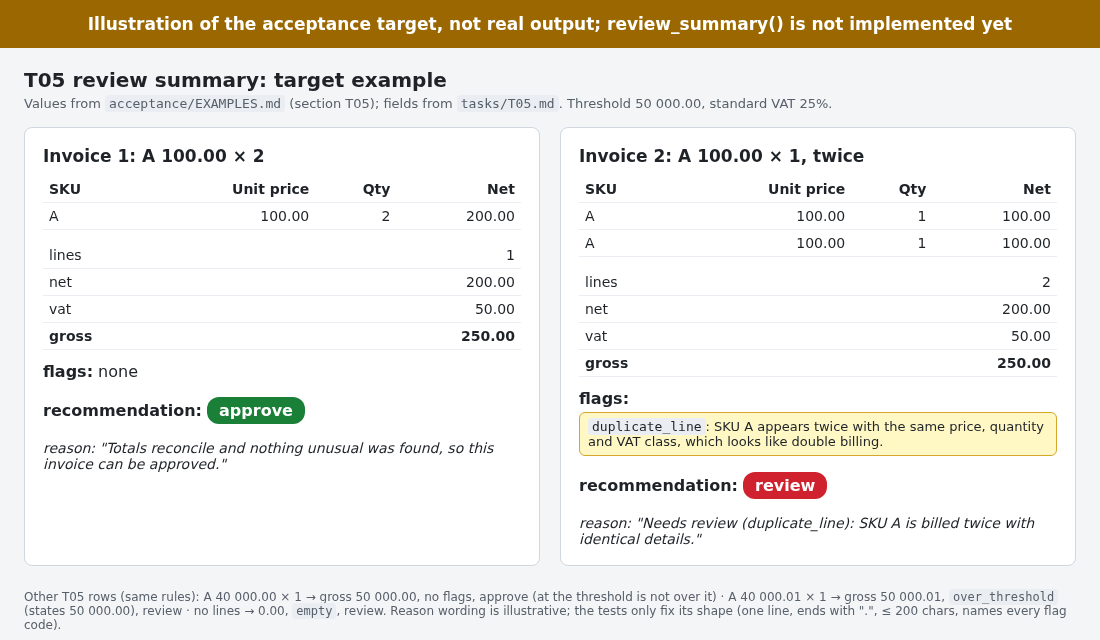
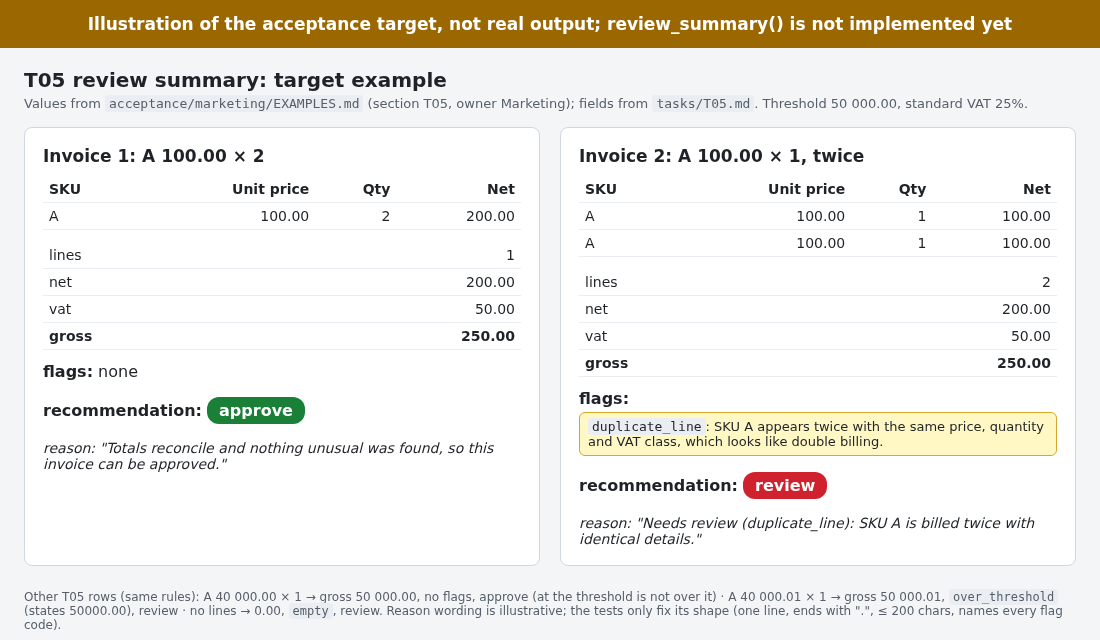
T05: Marketing owns its own acceptance path (acceptance/marketing/), stronger duplicate/threshold/empty assertions, per-path CODEOWNERS in demo; re-pin FREEZE

Changed region(s): [[0.0618, 0.9375, 0.9891, 0.9688], [0.1855, 0.1562, 0.9273, 0.1875]]

diff --git a/examples/invoice-demo/docs/t05-target-example.html b/examples/invoice-demo/docs/t05-target-example.html
@@ -11,7 +11,7 @@ code{background:#eaeef2;padding:1px 4px;border-radius:3px}.reason{font-style:ita
 .foot{padding:0 24px 18px;font-size:12px;color:#57606a}</style></head><body>
 <div class="banner">Illustration of the acceptance target, not real output; review_summary() is not implemented yet</div>
 <h1>T05 review summary: target example</h1>
-<p class="sub">Values from <code>acceptance/EXAMPLES.md</code> (section T05); fields from <code>tasks/T05.md</code>. Threshold 50 000.00, standard VAT 25%.</p>
+<p class="sub">Values from <code>acceptance/marketing/EXAMPLES.md</code> (section T05, owner Marketing); fields from <code>tasks/T05.md</code>. Threshold 50 000.00, standard VAT 25%.</p>
 <div class="row">
 <div class="card"><h2>Invoice 1: A 100.00 × 2</h2>
 <table><tr><th>SKU</th><th class="n">Unit price</th><th class="n">Qty</th><th class="n">Net</th></tr>
@@ -28,5 +28,5 @@ code{background:#eaeef2;padding:1px 4px;border-radius:3px}.reason{font-style:ita
 <p><b>recommendation:</b> <span class="pill rv">review</span></p>
 <div class="reason">reason: "Needs review (duplicate_line): SKU A is billed twice with identical details."</div></div>
 </div>
-<div class="foot">Other T05 rows (same rules): A 40 000.00 × 1 → gross 50 000.00, no flags, approve (at the threshold is not over it) · A 40 000.01 × 1 → gross 50 000.01, <code>over_threshold</code> (states 50 000.00), review · no lines → 0.00, <code>empty</code>, review. Reason wording is illustrative; the tests only fix its shape (one line, ends with ".", ≤ 200 chars, names every flag code).</div>
+<div class="foot">Other T05 rows (same rules): A 40 000.00 × 1 → gross 50 000.00, no flags, approve (at the threshold is not over it) · A 40 000.01 × 1 → gross 50 000.01, <code>over_threshold</code> (states 50000.00), review · no lines → 0.00, <code>empty</code>, review. Reason wording is illustrative; the tests only fix its shape (one line, ends with ".", ≤ 200 chars, names every flag code).</div>
 </body></html>

diff --git a/examples/invoice-demo/acceptance/marketing/test_acceptance.py b/examples/invoice-demo/acceptance/marketing/test_acceptance.py
@@ -1,0 +1,111 @@
+"""Protected acceptance tests, built from acceptance/marketing/EXAMPLES.md and approved by Marketing.
+
+Marketing owns this path (T05); Finance owns acceptance/test_acceptance.py (T01..T04).
+Agents may read and run these tests but never change them. Any change goes back to Marketing.
+The owner enables increments in .golden-path/config.json acceptance.command
+(e.g. acceptance.marketing.test_acceptance.T05).
+"""
+import unittest
+from decimal import Decimal
+from invoice import Invoice, Line
+
+
+# T05: see acceptance/marketing/EXAMPLES.md section T05 (owner: Marketing)
+class T05(unittest.TestCase):
+    KEYS = {"lines", "net", "vat", "gross", "flags", "recommendation", "reason"}
+
+    def codes(self, s):
+        return [f["code"] for f in s["flags"]]
+
+    def assertOneSentence(self, text):
+        self.assertIsInstance(text, str)
+        self.assertNotIn("\n", text)
+        self.assertTrue(text.strip().endswith("."))
+        self.assertLessEqual(len(text), 200)
+
+    def test_fixed_fields_and_totals_reconcile(self):
+        inv = Invoice().add(Line("A", "100.00", 2)).add(Line("F", "10.00", 1, "food"))
+        s = inv.review_summary()
+        self.assertEqual(set(s), self.KEYS)
+        self.assertEqual(s["lines"], 2)
+        self.assertEqual((s["net"], s["vat"], s["gross"]),
+                         (inv.net_total(), inv.vat_total(), inv.gross_total()))
+        self.assertEqual(s["net"] + s["vat"], s["gross"])
+
+    def test_clean_invoice_is_approved_with_one_sentence(self):
+        s = Invoice().add(Line("A", "100.00", 2)).review_summary()
+        self.assertEqual(s["gross"], Decimal("250.00"))
+        self.assertEqual(s["flags"], [])
+        self.assertEqual(s["recommendation"], "approve")
+        self.assertOneSentence(s["reason"])
+
+    def test_duplicate_line_flagged_with_plain_reason(self):
+        s = Invoice().add(Line("A", "100.00", 1)).add(Line("A", "100.00", 1)).review_summary()
+        self.assertEqual(self.codes(s), ["duplicate_line"])
+        self.assertIn("A", s["flags"][0]["reason"])
+        self.assertEqual(s["recommendation"], "review")
+        self.assertIn("duplicate_line", s["reason"])
+        self.assertOneSentence(s["reason"])
+
+    def test_same_sku_with_other_differences_is_not_duplicate(self):
+        cases = [
+            ((Line("A", "100.00", 1), Line("A", "90.00", 1)), Decimal("237.50")),          # price differs
+            ((Line("A", "100.00", 1), Line("A", "100.00", 2)), Decimal("375.00")),         # quantity differs
+            ((Line("A", "100.00", 1), Line("A", "100.00", 1, "food")), Decimal("240.00")),  # VAT class differs
+        ]
+        for lines, gross in cases:
+            with self.subTest(lines=lines):
+                s = Invoice().add(lines[0]).add(lines[1]).review_summary()
+                self.assertEqual(s["gross"], gross)
+                self.assertNotIn("duplicate_line", self.codes(s))
+                self.assertEqual(s["flags"], [])
+                self.assertEqual(s["recommendation"], "approve")
+
+    def test_threshold_is_strictly_greater(self):
+        at = Invoice().add(Line("A", "40000.00", 1)).review_summary()
+        self.assertEqual(at["gross"], Decimal("50000.00"))
+        self.assertEqual(at["recommendation"], "approve")
+        over = Invoice().add(Line("A", "40000.01", 1)).review_summary()
+        self.assertEqual(self.codes(over), ["over_threshold"])
+        self.assertIn("50000.00", over["flags"][0]["reason"])
+        self.assertEqual(over["recommendation"], "review")
+        with self.assertRaises(TypeError):
+            Invoice().add(Line("A", "1.00", 1)).review_summary(threshold=1.0)
+
+    def test_custom_threshold_reason_states_effective_threshold(self):
+        for threshold in ("10.00", Decimal("10.00")):
+            with self.subTest(threshold=threshold):
+                s = Invoice().add(Line("A", "10.00", 1)).review_summary(threshold=threshold)
+                self.assertEqual(s["gross"], Decimal("12.50"))
+                self.assertEqual(self.codes(s), ["over_threshold"])
+                self.assertIn("10.00", s["flags"][0]["reason"])
+                self.assertNotIn("50000.00", s["flags"][0]["reason"])
+                self.assertEqual(s["recommendation"], "review")
+
+    def test_decimal_threshold_accepted_at_boundary(self):
+        s = Invoice().add(Line("A", "10.00", 1)).review_summary(threshold=Decimal("12.5"))
+        self.assertEqual(s["flags"], [])
+        self.assertEqual(s["recommendation"], "approve")
+
+    def test_empty_invoice_needs_review(self):
+        s = Invoice().review_summary()
+        self.assertEqual(s["lines"], 0)
+        self.assertEqual(self.codes(s), ["empty"])
+        self.assertIsInstance(s["flags"][0]["reason"], str)
+        self.assertTrue(s["flags"][0]["reason"].strip())
+        self.assertEqual(s["recommendation"], "review")
+        self.assertIn("empty", s["reason"])
+        self.assertOneSentence(s["reason"])
+
+    def test_every_flag_named_in_reason(self):
+        s = (Invoice().add(Line("A", "30000.00", 1)).add(Line("A", "30000.00", 1))
+             .review_summary())
+        self.assertEqual(sorted(self.codes(s)), ["duplicate_line", "over_threshold"])
+        for f in s["flags"]:
+            self.assertTrue(f["reason"].strip())
+            self.assertIn(f["code"], s["reason"])
+        self.assertOneSentence(s["reason"])
+
+
+if __name__ == "__main__":
+    unittest.main()

diff --git a/examples/invoice-demo/acceptance/test_acceptance.py b/examples/invoice-demo/acceptance/test_acceptance.py
@@ -68,72 +68,5 @@ class T04(unittest.TestCase):
         self.assertEqual(sum(v["vat"] for v in s.values()), inv.vat_total())
 
 
-# T05: see EXAMPLES.md section T05 (owner: Marketing)
-class T05(unittest.TestCase):
-    KEYS = {"lines", "net", "vat", "gross", "flags", "recommendation", "reason"}
-
-    def codes(self, s):
-        return [f["code"] for f in s["flags"]]
-
-    def assertOneSentence(self, text):
-        self.assertIsInstance(text, str)
-        self.assertNotIn("\n", text)
-        self.assertTrue(text.strip().endswith("."))
-        self.assertLessEqual(len(text), 200)
-
-    def test_fixed_fields_and_totals_reconcile(self):
-        inv = Invoice().add(Line("A", "100.00", 2)).add(Line("F", "10.00", 1, "food"))
-        s = inv.review_summary()
-        self.assertEqual(set(s), self.KEYS)
-        self.assertEqual(s["lines"], 2)
-        self.assertEqual((s["net"], s["vat"], s["gross"]),
-                         (inv.net_total(), inv.vat_total(), inv.gross_total()))
-        self.assertEqual(s["net"] + s["vat"], s["gross"])
-
-    def test_clean_invoice_is_approved_with_one_sentence(self):
-        s = Invoice().add(Line("A", "100.00", 2)).review_summary()
-        self.assertEqual(s["gross"], Decimal("250.00"))
-        self.assertEqual(s["flags"], [])
-        self.assertEqual(s["recommendation"], "approve")
-        self.assertOneSentence(s["reason"])
-
-    def test_duplicate_line_flagged_with_plain_reason(self):
-        s = Invoice().add(Line("A", "100.00", 1)).add(Line("A", "100.00", 1)).review_summary()
-        self.assertEqual(self.codes(s), ["duplicate_line"])
-        self.assertIn("A", s["flags"][0]["reason"])
-        self.assertEqual(s["recommendation"], "review")
-        self.assertIn("duplicate_line", s["reason"])
-        self.assertOneSentence(s["reason"])
-
-    def test_threshold_is_strictly_greater(self):
-        at = Invoice().add(Line("A", "40000.00", 1)).review_summary()
-        self.assertEqual(at["gross"], Decimal("50000.00"))
-        self.assertEqual(at["recommendation"], "approve")
-        over = Invoice().add(Line("A", "40000.01", 1)).review_summary()
-        self.assertEqual(self.codes(over), ["over_threshold"])
-        self.assertIn("50", over["flags"][0]["reason"])
-        self.assertEqual(over["recommendation"], "review")
-        self.assertEqual(Invoice().add(Line("A", "10.00", 1))
-                         .review_summary(threshold="10.00")["recommendation"], "review")
-        with self.assertRaises(TypeError):
-            Invoice().add(Line("A", "1.00", 1)).review_summary(threshold=1.0)
-
-    def test_empty_invoice_needs_review(self):
-        s = Invoice().review_summary()
-        self.assertEqual(s["lines"], 0)
-        self.assertEqual(self.codes(s), ["empty"])
-        self.assertEqual(s["recommendation"], "review")
-        self.assertOneSentence(s["reason"])
-
-    def test_every_flag_named_in_reason(self):
-        s = (Invoice().add(Line("A", "30000.00", 1)).add(Line("A", "30000.00", 1))
-             .review_summary())
-        self.assertEqual(sorted(self.codes(s)), ["duplicate_line", "over_threshold"])
-        for f in s["flags"]:
-            self.assertTrue(f["reason"].strip())
-            self.assertIn(f["code"], s["reason"])
-        self.assertOneSentence(s["reason"])
-
-
 if __name__ == "__main__":
     unittest.main()

diff --git a/examples/invoice-demo/acceptance/EXAMPLES.md b/examples/invoice-demo/acceptance/EXAMPLES.md
@@ -1,9 +1,17 @@
 # Acceptance examples: invoice calculator
 
-Owner: **Finance, Ingrid Berg** (a fictional business-context expert). These examples are the
-acceptance criteria. Each section is an executable test class in `acceptance/test_acceptance.py`, which Ingrid reviewed
-and approved. Agents may read and run them but never change them. A change goes back to Ingrid.
-Ingrid releases increments by naming them in the acceptance command (`.golden-path/config.json`), e.g. `python3 -m unittest acceptance.test_acceptance.T01`.
+Ownership is per increment, and each owner has their own acceptance path:
+
+| Increments | Owner | Examples | Tests |
+|---|---|---|---|
+| T01..T04 | **Finance, Ingrid Berg** | this file | `acceptance/test_acceptance.py` |
+| T05 | **Marketing** | [`acceptance/marketing/EXAMPLES.md`](marketing/EXAMPLES.md) | `acceptance/marketing/test_acceptance.py` |
+
+The owners are fictional business-context experts. The sections below are Finance's (T01..T04); each is an
+executable test class in `acceptance/test_acceptance.py`, which Ingrid reviewed and approved. Agents may read and
+run them but never change them. A change goes back to the owner of that increment.
+Owners release increments by naming them in the acceptance command (`.golden-path/config.json`), e.g. `python3 -m unittest acceptance.test_acceptance.T01`
+(Marketing's T05 would be `acceptance.marketing.test_acceptance.T05`; it is not enabled yet).
 
 ## T01: Percentage discount per line
 | Unit price | Qty | Discount | Net | VAT (25%) | Why |
@@ -22,17 +30,3 @@ Quantity 9 at 1.00 → 9.00. Quantity 10 at 1.00 → 9.50 (5% bulk). 10 × 0.33 
 ## T04: VAT summary
 Two standard lines at 0.10 and one food line at 10.00 → standard: net 0.20, VAT 0.06; food: net 10.00,
 VAT 1.50. The summary always adds up to the invoice VAT total.
-
-## T05: Review summary (owner: Marketing, intent: "invoices a human can approve at a glance")
-One summary per invoice with fixed fields: `lines`, `net`, `vat`, `gross`, `flags`, `recommendation`, `reason`.
-
-| Invoice | Gross | Flags | Recommendation | Why |
-|---|---|---|---|---|
-| A 100.00 × 2 | 250.00 | none | approve | Totals reconcile, nothing unusual |
-| A 100.00 × 1 twice | 250.00 | `duplicate_line` (names A) | review | Same line twice looks like double billing |
-| A 40 000.00 × 1 | 50 000.00 | none | approve | At the 50 000.00 threshold is not over it |
-| A 40 000.01 × 1 | 50 000.01 | `over_threshold` (states 50 000.00) | review | Large amounts need a second look |
-| no lines | 0.00 | `empty` | review | Nothing to approve |
-
-The `reason` is always one sentence (one line, ends with `.`, ≤ 200 characters) and names every flag.
-Not testable here, checked by Marketing reading real summaries: that a person "immediately understands" it.

diff --git a/examples/invoice-demo/acceptance/marketing/EXAMPLES.md b/examples/invoice-demo/acceptance/marketing/EXAMPLES.md
@@ -1,0 +1,32 @@
+# Acceptance examples: invoice calculator, Marketing increments
+
+Owner: **Marketing** (a fictional business-context expert). This is Marketing's own acceptance path,
+separate from Finance's (`acceptance/EXAMPLES.md`, T01..T04). These examples are the acceptance criteria. Each
+section is an executable test class in `acceptance/marketing/test_acceptance.py`, which Marketing reviewed and
+approved. Agents may read and run them but never change them. A change goes back to Marketing.
+Marketing releases an increment by naming it in the acceptance command (`.golden-path/config.json`), e.g.
+`python3 -m unittest acceptance.marketing.test_acceptance.T05`. T05 is not enabled yet.
+
+## T05: Review summary (intent: "invoices a human can approve at a glance")
+One summary per invoice with fixed fields: `lines`, `net`, `vat`, `gross`, `flags`, `recommendation`, `reason`.
+
+| Invoice | Gross | Flags | Recommendation | Why |
+|---|---|---|---|---|
+| A 100.00 × 2 | 250.00 | none | approve | Totals reconcile, nothing unusual |
+| A 100.00 × 1 twice | 250.00 | `duplicate_line` (names A) | review | Same line twice looks like double billing |
+| A 100.00 × 1 and A 90.00 × 1 | 237.50 | none | approve | Same SKU, different price: not a duplicate |
+| A 100.00 × 1 and A 100.00 × 2 | 375.00 | none | approve | Same SKU, different quantity: not a duplicate |
+| A 100.00 × 1 and A 100.00 × 1 food | 240.00 | none | approve | Same SKU, different VAT class: not a duplicate |
+| A 40 000.00 × 1 | 50 000.00 | none | approve | At the 50000.00 threshold is not over it |
+| A 40 000.01 × 1 | 50 000.01 | `over_threshold` (states `50000.00`) | review | Large amounts need a second look |
+| A 10.00 × 1, threshold `"10.00"` | 12.50 | `over_threshold` (states `10.00`, not `50000.00`) | review | A custom threshold is the one stated |
+| A 10.00 × 1, threshold `Decimal("10.00")` | 12.50 | `over_threshold` (states `10.00`) | review | A Decimal threshold is accepted like a string |
+| A 10.00 × 1, threshold `Decimal("12.5")` | 12.50 | none | approve | At the threshold is not over it |
+| A 1.00 × 1, threshold `1.0` (float) | | rejected | | Floats are refused, like money |
+| no lines | 0.00 | `empty` (plain-language reason) | review | Nothing to approve; the summary reason names `empty` |
+
+The threshold is stated in a flag reason as a plain number with two decimals and no thousands separator
+(`50000.00`, `10.00`), the effective threshold for that call.
+Every flag has a non-empty plain-language `reason`. The summary `reason` is always one sentence (one line,
+ends with `.`, ≤ 200 characters) and names every flag code.
+Not testable here, checked by Marketing reading real summaries: that a person "immediately understands" it.

diff --git a/examples/invoice-demo/README.md b/examples/invoice-demo/README.md
@@ -4,9 +4,15 @@ A tiny stdlib Python app that uses the Golden Path kit **the way an adopter woul
 by `plugin/install.mjs`, never copied by hand. This is a demonstration fixture, not evidence. The app is
 Python; the kit's hook script is Node.js.
 
-- `acceptance/EXAMPLES.md`: business examples written by the (fictional) acceptance owner, *Finance: Ingrid Berg*.
-- `acceptance/test_acceptance.py`: the protected acceptance tests built from those examples, one class per
-  increment. The owner enables increments in the acceptance command (`acceptance.test_acceptance.T01`).
+- Acceptance ownership is **per increment**, each owner on their own path (all owners are fictional):
+  - *Finance: Ingrid Berg* owns T01..T04: `acceptance/EXAMPLES.md` and `acceptance/test_acceptance.py`.
+  - *Marketing* owns T05: `acceptance/marketing/EXAMPLES.md` and `acceptance/marketing/test_acceptance.py`.
+- The test modules are the protected acceptance tests built from those examples, one class per
+  increment. The owner enables increments in the acceptance command (`acceptance.test_acceptance.T01`); T05
+  (`acceptance.marketing.test_acceptance.T05`) is not enabled yet.
+- `make-demo.sh` protects all of `acceptance/**` and writes a `CODEOWNERS` with one line per owner path. The kit's
+  config holds a single `acceptance.owner` string, so per-path owners come from `CODEOWNERS` (used by the
+  authorised-revision check); the config string names both owners for the agent-facing messages.
 - `invoice.py`, `tests/`: the app and the developer's own tests.
 - `tasks/T01..T05.md`: frozen tasks. `FREEZE.sha256` pins the tasks and the acceptance files.
 - `simulator/refusal_scenario.mjs`: a **scripted** run of "the agent tries to edit a protected test and is refused".

diff --git a/examples/invoice-demo/tasks/T05.md b/examples/invoice-demo/tasks/T05.md
@@ -1,7 +1,7 @@
 # T05: Review summary a human can approve at a glance
 
-Acceptance: Marketing's examples in `acceptance/EXAMPLES.md` (section T05) and the protected tests in
-`acceptance/test_acceptance.py` (class `T05`). Do not change them.
+Acceptance (owner: Marketing): Marketing's examples in `acceptance/marketing/EXAMPLES.md` (section T05) and the
+protected tests in `acceptance/marketing/test_acceptance.py` (class `T05`). Do not change them.
 
 Add `Invoice.review_summary(threshold="50000.00")` returning a dict with **exactly** these keys:
 `lines` (int, number of lines), `net`, `vat`, `gross` (Decimal, equal to `net_total()`,
@@ -10,10 +10,13 @@ Add `Invoice.review_summary(threshold="50000.00")` returning a dict with **exact
 
 Flags, each with a plain-language `reason` that names what is wrong:
 - `empty`: the invoice has no lines.
-- `duplicate_line`: two or more lines have the same `sku`, `unit_price`, `quantity` and `vat_class`;
+  Every flag's `reason` is non-empty.
+- `duplicate_line`: two or more lines have the same `sku`, `unit_price`, `quantity` and `vat_class`
+  (a matching SKU with a different price, quantity or VAT class is not a duplicate);
   the reason names the SKU.
 - `over_threshold`: `gross` is strictly greater than `threshold` (str or Decimal; floats rejected
-  like `to_money`); the reason states the threshold.
+  like `to_money`); the reason states the
+  effective threshold as a plain number with two decimals and no thousands separator (e.g. `50000.00`).
 
 `recommendation` is `"approve"` if and only if `flags` is empty, otherwise `"review"`. `reason` is one
 sentence: a single line, ending with `.`, at most 200 characters; when reviewing it contains every
